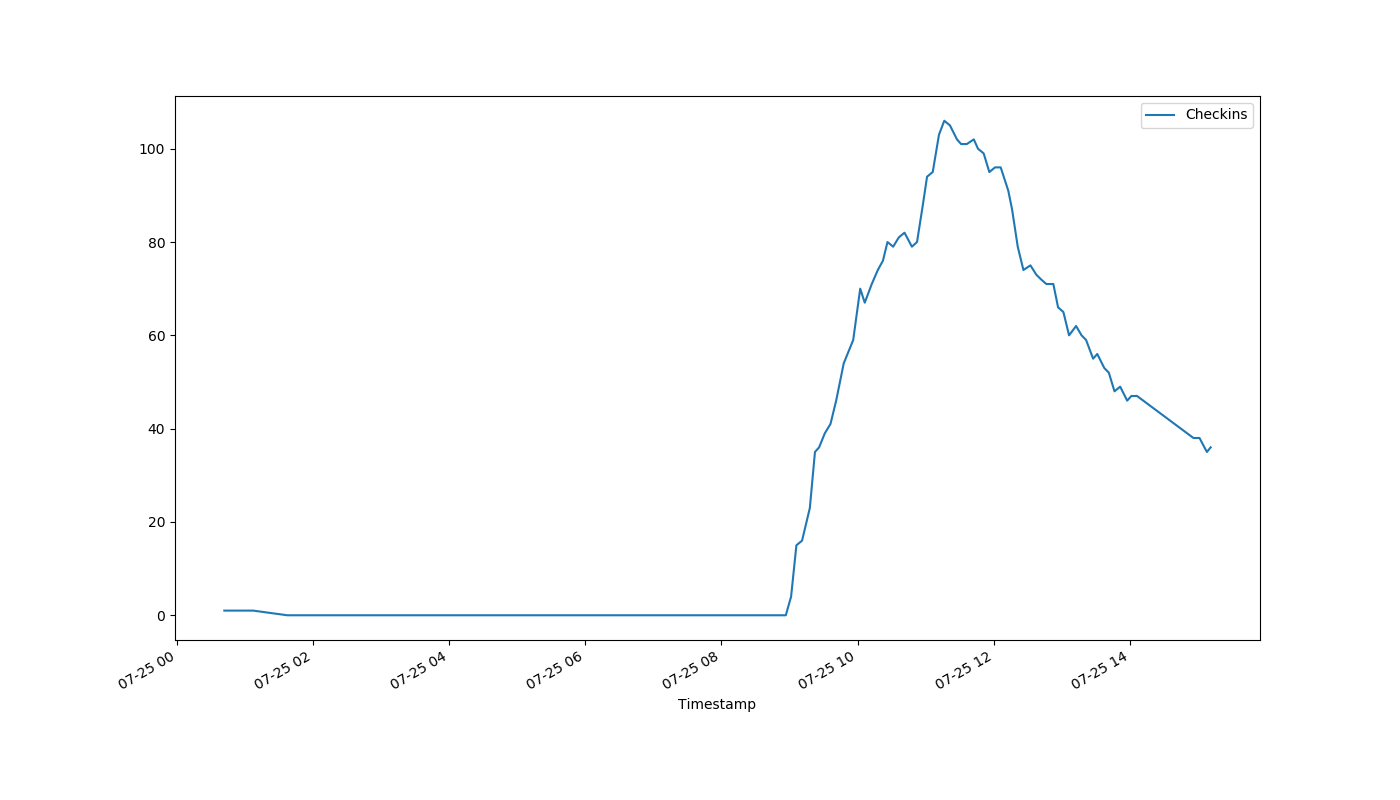
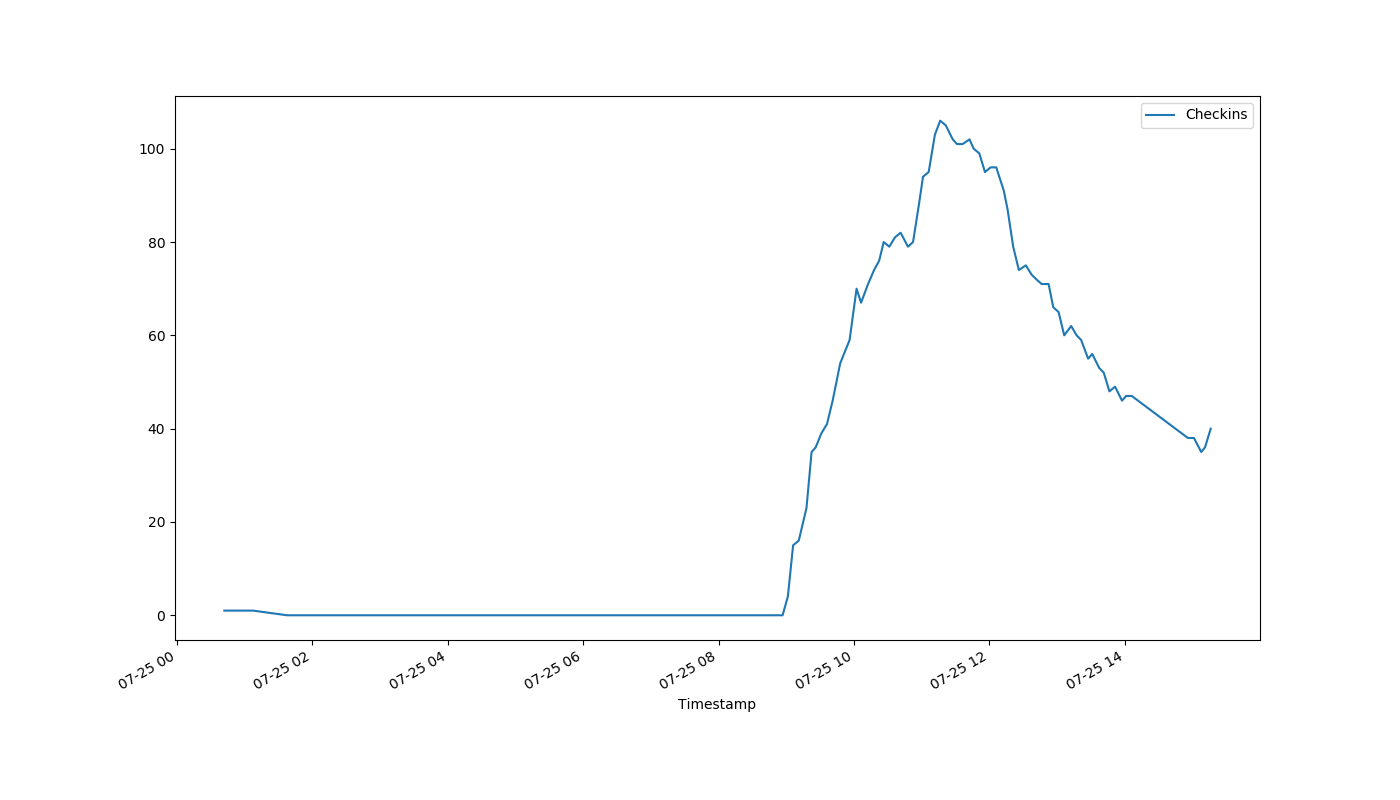
auto-Jul-25-15:17:05

diff --git a/index.html b/index.html
@@ -1,1 +1,1 @@
-<!DOCTYPE html><html><head><meta http-equiv="refresh" content="30"><link rel='stylesheet' href='holmcurrent.css'></head><body><p id='count'>36</p><div id='graph-wrap'><img id='graph' src='holmgraph-Jul-25.png'></div><p id='updated'>Last updated 15:11:06 / 15:11:04</p></body></html>
+<!DOCTYPE html><html><head><meta http-equiv="refresh" content="30"><link rel='stylesheet' href='holmcurrent.css'></head><body><p id='count'>40</p><div id='graph-wrap'><img id='graph' src='holmgraph-Jul-25.png'></div><p id='updated'>Last updated 15:16:06 / 15:16:05</p></body></html>
